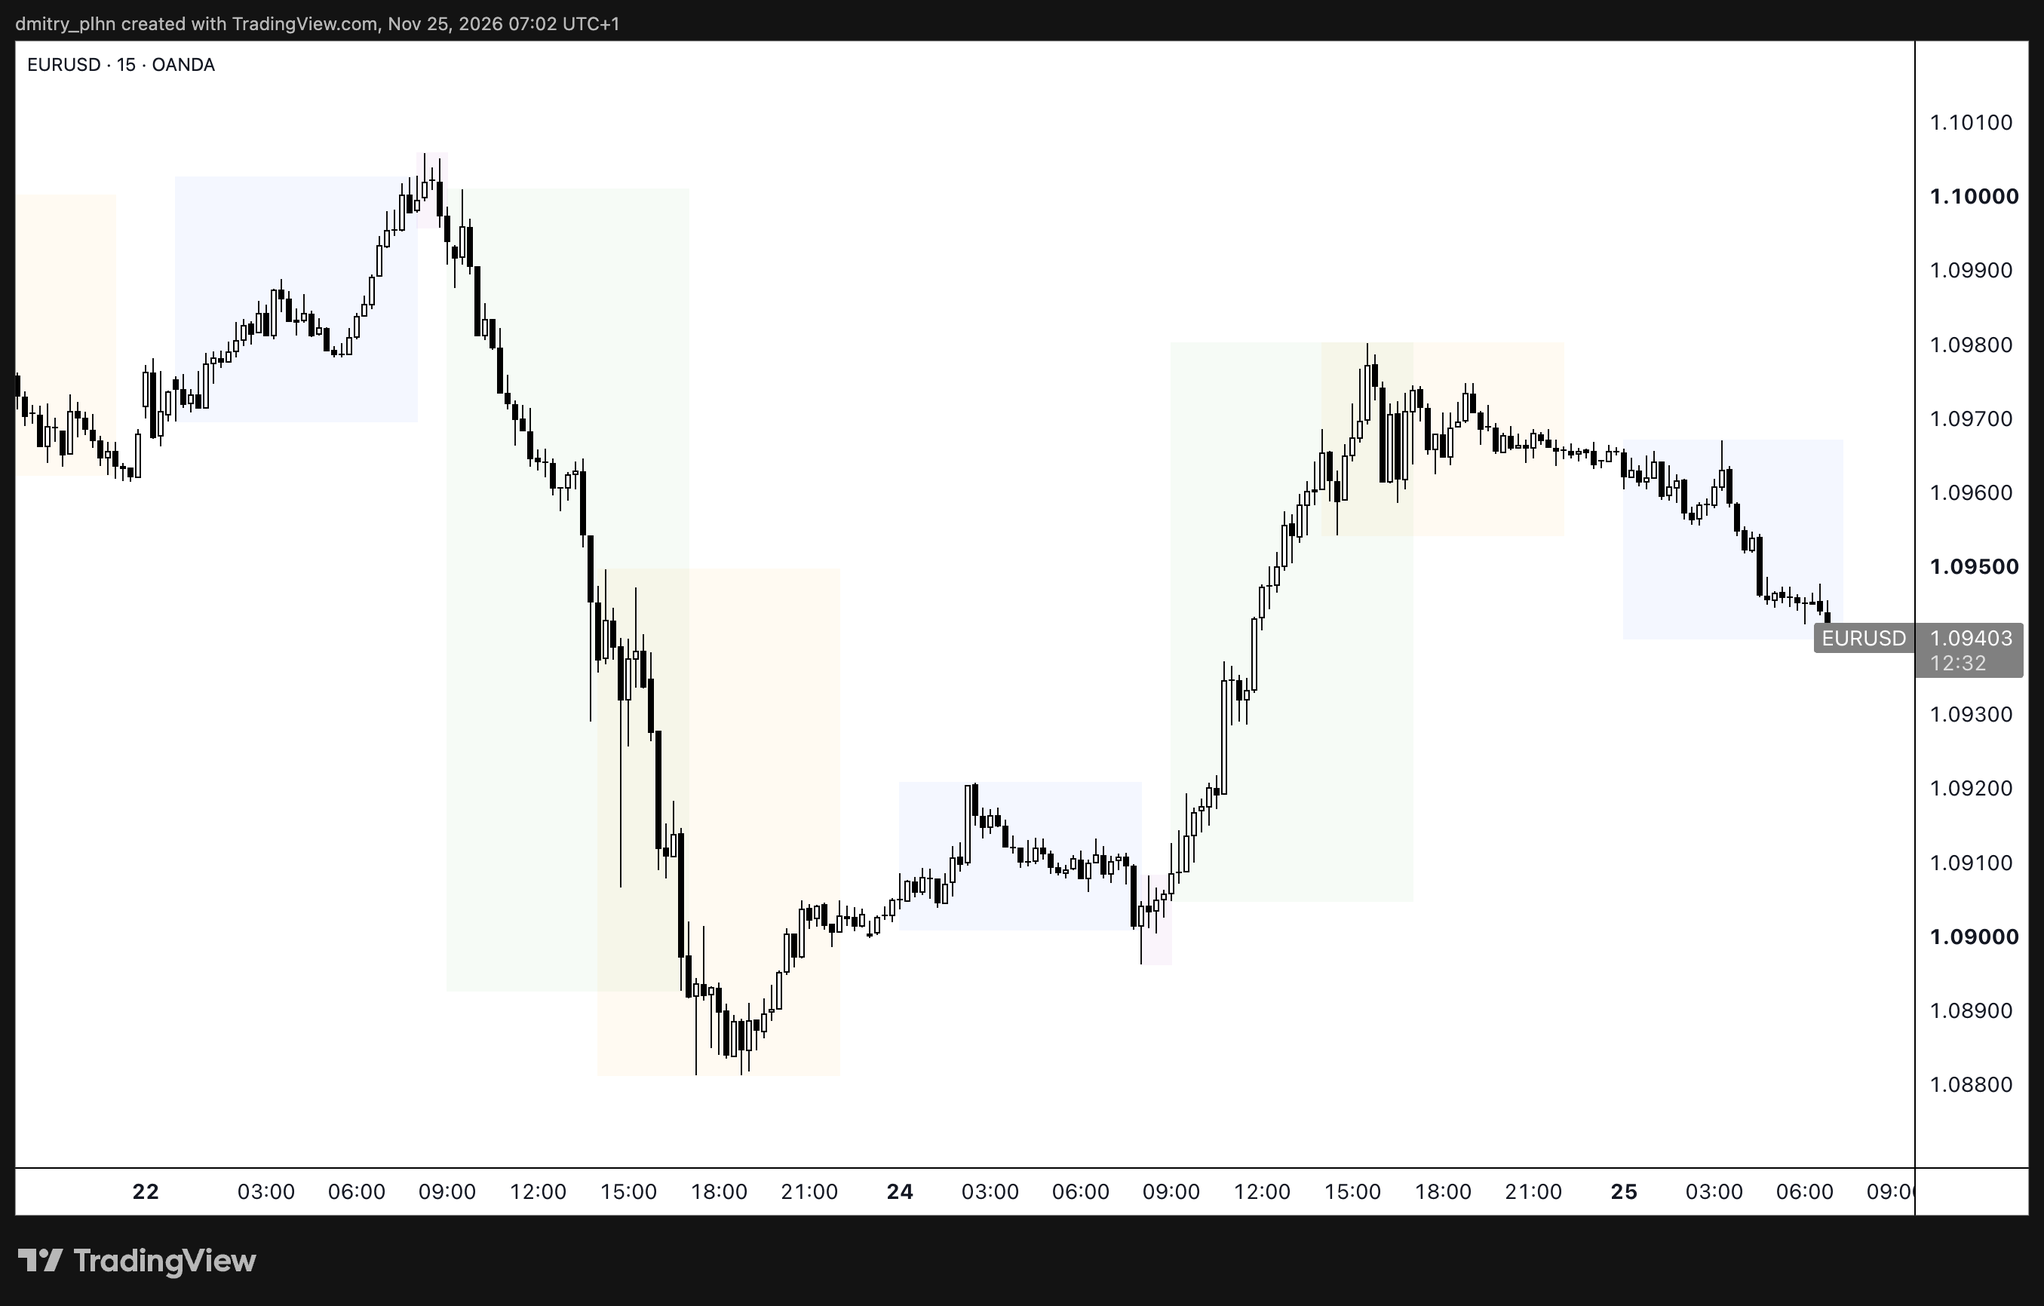
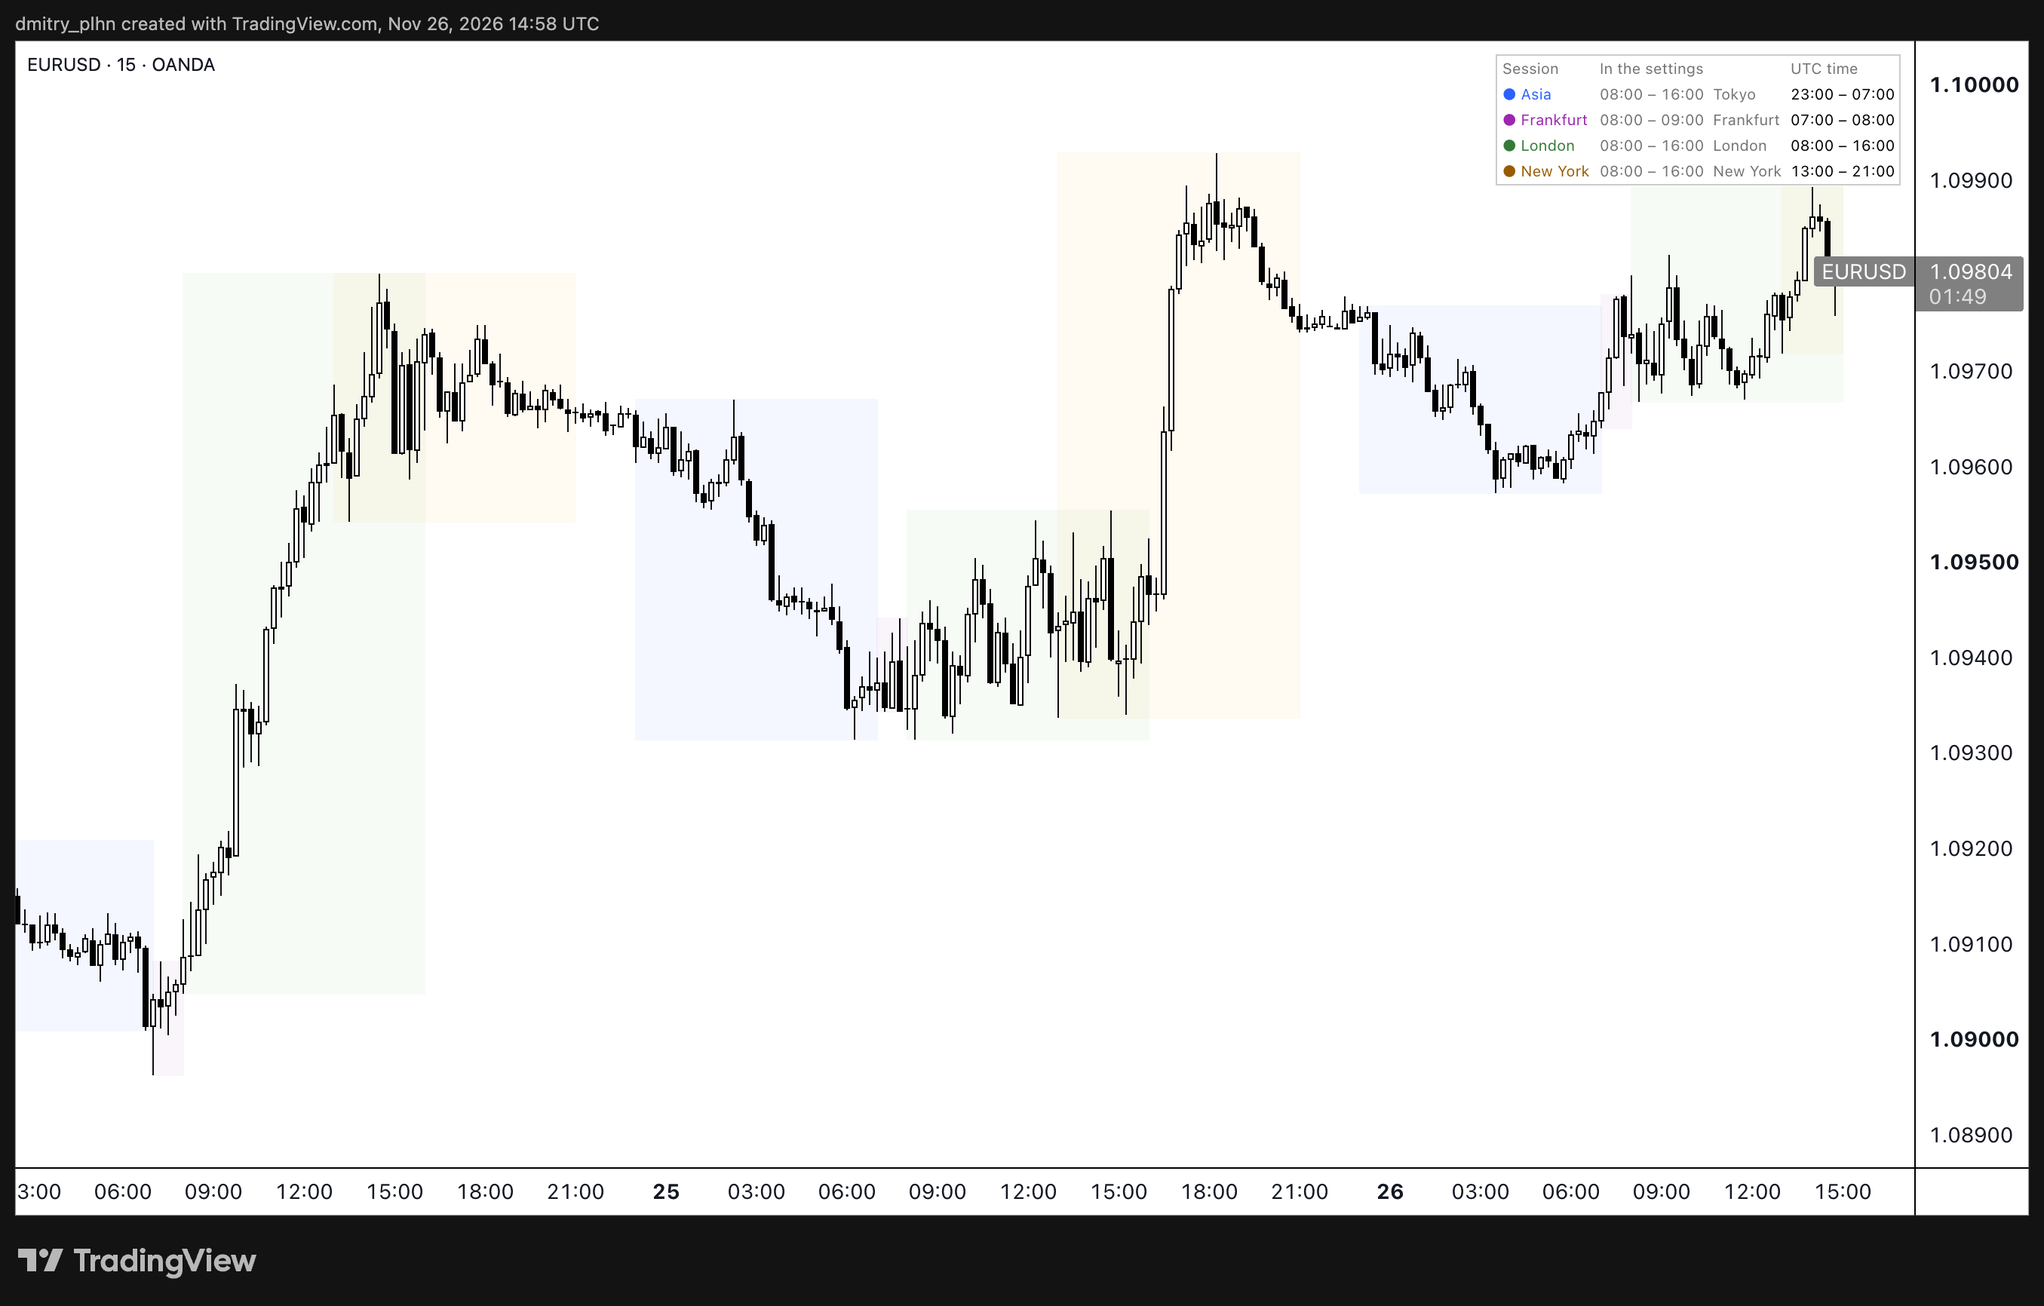
feat(dashboard): show the session hours on the chart by default
With the dashboard off, 'Hours on my clock' now draws a small table of its own: every session with its hours as written in the settings and the same hours in 'My timezone'. The setting is on by default, so the table is too. Picking a timezone used to change nothing that could be seen while the dashboard was off; now the last column follows it at once.

diff --git a/docs/TESTING.md b/docs/TESTING.md
@@ -63,7 +63,7 @@ Run before every release. Add the indicator to the chart and walk through the ro
 
 | # | Check | Expected |
 | --- | ------- | ---------- |
-| 1 | Defaults on a 15-minute chart | Four session boxes per day (Asia, Frankfurt, London, New York), no labels, nothing else |
+| 1 | Defaults on a 15-minute chart | Four session boxes per day (Asia, Frankfurt, London, New York), no labels, and the hours table with a line for each of the four |
 | 2 | Change the city of a session row, then the *Clock* of the killzones, then *My timezone* | The box of that row moves and keeps its width, the other sessions stay; the killzone clock moves killzones only; *My timezone* moves nothing but rows and clocks set to `My time` and changes the *Hours* column of the dashboard |
 | 3 | Weeks around the clock changes in Europe and the US (March, October – November) | Every session keeps the local hours of its city; killzones keep their New York times |
 | 4 | Style `Background`, then `Box + background`, then `Hidden` | Bands, both, nothing — labels stay for all but `Hidden` caption |
@@ -129,3 +129,4 @@ Run before every release. Add the indicator to the chart and walk through the ro
 | 2026-11-26 | 3.0.0 | Release build | pass — the tagged file itself was saved in TradingView, added to the chart as a new instance and published as the update: it compiles without errors and the editor marks nothing; on `OANDA:EURUSD` 15m the indicator has 115 inputs, all at their defaults, and 20 plots, and reports no script error |
 | 2026-11-26 | 4.0.0 | No timezone for the whole indicator: a *Clock* in the killzone, opens, opening range and time tools groups; *My timezone*; cities `Exchange` and `My time`; *Hours* column in the dashboard | Static checks pass. Full compile with **Add to chart** from an unsaved draft: pass, the editor marks nothing; 119 inputs, 20 plots. On `OANDA:EURUSD` 15m, 400 bars, with killzones, three opens, the opening range, day separators and weekday labels on: all 20 plots equal those of 3.0.0 on every bar, and the 70 boxes, 90 lines and 105 labels of the two builds are the same. A London row with `0900-1700` and the city `My time`, *My timezone* on `Paris, Berlin, Madrid`, gives the same plots as `0800-1600` `London` on all 400 bars. Dashboard with that timezone at 04:21 UTC: Asia `00:00 – 08:00` `Open · 2h 39m left`, Frankfurt `08:00 – 09:00`, London `09:00 – 17:00`, New York `14:00 – 22:00`. Not checked: a clock other than New York for killzones, opens and the opening range, the summer half of the year for a `My time` row, the mobile app. |
 | 2026-11-26 | 4.0.0 | Release build | pass — the tagged file itself was saved in TradingView, added to the chart as a new instance and published as the update: it compiles without errors and the editor marks nothing; on `OANDA:EURUSD` 15m the indicator has 119 inputs, all at their defaults, and 20 plots, and reports no script error |
+| 2026-11-26 | `main`, after 4.0.0 | Hours table on the chart when the dashboard is off | Static checks pass. Full compile with **Add to chart** from an unsaved draft: pass, the editor marks nothing; 119 inputs, 20 plots. On `OANDA:EURUSD` 15m with every input at its default the table reads `Asia · 08:00 – 16:00 Tokyo · 23:00 – 07:00`, `Frankfurt · 08:00 – 09:00 Frankfurt · 07:00 – 08:00`, `London · 08:00 – 16:00 London · 08:00 – 16:00`, `New York · 08:00 – 16:00 New York · 13:00 – 21:00` under the heading `UTC time`, and matches the time axis of a chart set to UTC. With *My timezone* on `Paris, Berlin, Madrid` the last column becomes 00:00 – 08:00, 08:00 – 09:00, 09:00 – 17:00 and 14:00 – 22:00; with killzones on, their five lines follow (`NY AM KZ · 07:00 – 10:00 New York · 13:00 – 16:00`). With the dashboard on the table is the dashboard with its *Hours* column; with *Hours on my clock* off and the dashboard off there is no table. Not checked: the mobile app, a chart above the timeframe limit. |

diff --git a/docs/SETTINGS.md b/docs/SETTINGS.md
@@ -5,9 +5,14 @@ as the titled input before them.
 
 > **Tip.** Hover the ⓘ icon next to an input in TradingView to read the same explanation without leaving the chart.
 
-With every input at its default the chart shows the four main sessions and nothing else:
+With every input at its default the chart shows the four main sessions and a small table of their hours:
 
-![Default settings: Asia, Frankfurt, London and New York session boxes](images/sessions-default.png)
+![Default settings: Asia, Frankfurt, London and New York session boxes and the hours table](images/sessions-default.png)
+
+The table has one line per session: its name, its hours as they are written in the settings, and the same hours
+on your own clock. The chart of the picture is set to UTC, which is also the default of *① General → My timezone*,
+so the last column matches the time axis. The other pictures of this page, except the dashboard one, were taken
+with *⑩ Hours on my clock* off.
 
 ## ① General
 
@@ -16,7 +21,7 @@ With every input at its default the chart shows the four main sessions and nothi
 | History, days (0 = all) | `20` | Drawings older than this many days are skipped. `0` draws the whole loaded history. |
 | Hide sessions above, minutes | `60` | Sessions, killzones and the opening range are hidden on chart timeframes above this value. |
 | Level labels offset, bars | `5` | How many bars to the right of the last bar the level lines end. Their labels sit at that end, so keep the right margin of the chart at least this wide. |
-| My timezone | `UTC` | The timezone your own chart shows — the clock in its bottom right corner. TradingView does not tell an indicator which one it is, so pick it here. It is used for the *Hours* column of the dashboard and for every clock set to `My time`. Sessions are drawn in the right place whatever is chosen here. |
+| My timezone | `UTC` | The timezone your own chart shows — the clock in its bottom right corner. TradingView does not tell an indicator which one it is, so pick it here. The hours table on the chart then shows every session on your clock, and it changes as soon as another city is picked. It is also the timezone of every clock set to `My time`. Sessions are drawn in the right place whatever is chosen here. |
 
 ## ② Sessions
 
@@ -165,7 +170,7 @@ them.
 | Text size | `Small` | Size of the table text. |
 | Average length | `20` | Number of completed sessions and days behind the `Avg` column. |
 | Day range row | on | Adds the day range and its share of the average daily range. |
-| Hours on my clock | on | Adds the *Hours* column: the hours of every session in *① General → My timezone*. |
+| Hours on my clock | on | Shows the hours of every session in *① General → My timezone*. With the dashboard off it is a small table of its own: session · hours as written in the settings, with their city · hours on your clock; enabled killzones are listed under the sessions. With the dashboard on it is the *Hours* column. |
 
 Columns: session name · hours on your own clock · status (`Open · 2h 05m left` or `Opens in 5h 03m`) · current or
 latest range · average range. The first line names the timezone the hours are shown in.

diff --git a/docs/FAQ.md b/docs/FAQ.md
@@ -17,9 +17,17 @@ The hours of a session row are the local time of the city on that row, not the t
 `0800-1600` is 8 to 16 o'clock in London. A chart set to Paris or Berlin time shows that session from 09:00 to
 17:00, a chart set to New York time from 03:00 to 11:00 — the same eight hours, read on another clock.
 
-To see the hours on your own clock, pick your timezone in *① General → My timezone* and switch the dashboard on:
-its *Hours* column lists every session in your time. With Paris or Berlin it reads Asia 00:00 – 08:00, Frankfurt
-08:00 – 09:00, London 09:00 – 17:00 and New York 14:00 – 22:00.
+The table on the chart does that conversion for you. Each line gives the hours as they are written in the
+settings and, next to them, the same hours in *① General → My timezone*. Pick your timezone there and the last
+column reads as your chart does: with Paris or Berlin, Asia 00:00 – 08:00, Frankfurt 08:00 – 09:00, London
+09:00 – 17:00 and New York 14:00 – 22:00.
+
+## I picked my timezone and the hours in the settings still start at 08:00
+
+They stay as they are on purpose. *My timezone* does not rewrite the session rows and does not move anything on
+the chart: a session row keeps the local time of its city, which is what keeps it in the right place all year.
+What changes is the table on the chart, whose last column shows every session on your clock. If you would rather
+type the hours as you see them on your chart, see the next entry.
 
 ## I want to type the hours as I see them on my chart
 
@@ -36,8 +44,13 @@ its own city, and why *My timezone* has to be picked once by hand.
 
 ## What is *My timezone* for?
 
-For two things: the *Hours* column of the dashboard, and every clock set to `My time`. Sessions, killzones and
-opens are drawn in the right place whatever it is set to, so there is nothing to break by leaving it alone.
+For two things: the hours table on the chart (the *Hours* column when the dashboard is on), and every clock set
+to `My time`. Sessions, killzones and opens are drawn in the right place whatever it is set to, so there is
+nothing to break by leaving it alone.
+
+## How do I hide the hours table?
+
+Untick *⑩ Dashboard → Hours on my clock*.
 
 ## A session is shifted by an hour
 

diff --git a/README.ru.md b/README.ru.md
@@ -19,7 +19,7 @@
 
 <a href="https://www.tradingview.com/script/ticv4Yo6-Custom-Sessions-Indicator/"><img src="docs/images/sessions-default.png" alt="Custom Sessions Indicator с настройками по умолчанию на EURUSD, 15 минут: боксы сессий Asia, Frankfurt, London и New York" width="100%"></a>
 
-<sub>Настройки по умолчанию на EURUSD, 15 минут: Asia, Frankfurt, London и New York.</sub>
+<sub>Настройки по умолчанию на EURUSD, 15 минут: Asia, Frankfurt, London и New York и таблица их часов.</sub>
 
 </div>
 
@@ -115,9 +115,10 @@ Killzones по умолчанию: Asia 20:00 – 00:00, London 02:00 – 05:00,
 NY PM 13:30 – 16:00, по нью-йоркскому времени — это *Clock* той же группы. Это общепринятые значения, а не правило:
 любое окно можно изменить.
 
-TradingView не сообщает индикатору, какой часовой пояс показывает ваш график. Выберите его один раз в
-*① General → My timezone*, и таблица покажет каждую сессию по вашим часам; строка с городом `My time` принимает
-часы так, как вы видите их на графике.
+Небольшая таблица на графике повторяет часы так, как они записаны в настройках, и рядом показывает их по вашим
+часам. TradingView не сообщает индикатору, какой часовой пояс показывает ваш график, поэтому выберите его один раз
+в *① General → My timezone*: таблица изменится сразу. Строка с городом `My time` принимает часы так, как вы видите
+их на графике.
 
 ## Документация
 

diff --git a/README.fr.md b/README.fr.md
@@ -19,7 +19,7 @@
 
 <a href="https://www.tradingview.com/script/ticv4Yo6-Custom-Sessions-Indicator/"><img src="docs/images/sessions-default.png" alt="Custom Sessions Indicator avec les paramètres par défaut sur EURUSD, 15 minutes : boîtes des sessions Asia, Frankfurt, London et New York" width="100%"></a>
 
-<sub>Paramètres par défaut sur EURUSD, 15 minutes : Asia, Frankfurt, London et New York.</sub>
+<sub>Paramètres par défaut sur EURUSD, 15 minutes : Asia, Frankfurt, London et New York, et le tableau de leurs heures.</sub>
 
 </div>
 
@@ -117,9 +117,10 @@ Killzones par défaut : Asia 20:00 – 00:00, London 02:00 – 05:00, NY AM 07:0
 NY PM 13:30 – 16:00, en heure de New York — le *Clock* de ce groupe. Ce sont des conventions, pas des règles :
 chaque fenêtre est modifiable.
 
-TradingView n'indique pas à un indicateur quel fuseau horaire votre graphique affiche. Choisissez-le une fois dans
-*① General → My timezone* : le tableau liste alors chaque session à votre heure, et une ligne dont la ville est
-`My time` prend ses heures telles que vous les voyez sur votre graphique.
+Un petit tableau sur le graphique reprend les heures telles qu'elles sont écrites dans les paramètres et les
+affiche à votre heure juste à côté. TradingView n'indique pas à un indicateur quel fuseau horaire votre graphique
+affiche : choisissez-le une fois dans *① General → My timezone*, le tableau change aussitôt. Une ligne dont la
+ville est `My time` prend ses heures telles que vous les voyez sur votre graphique.
 
 ## Documentation
 

diff --git a/README.md b/README.md
@@ -19,7 +19,7 @@
 
 <a href="https://www.tradingview.com/script/ticv4Yo6-Custom-Sessions-Indicator/"><img src="docs/images/sessions-default.png" alt="Custom Sessions Indicator with default settings on EURUSD, 15 minutes: Asia, Frankfurt, London and New York session boxes" width="100%"></a>
 
-<sub>Default settings on EURUSD, 15 minutes: Asia, Frankfurt, London and New York.</sub>
+<sub>Default settings on EURUSD, 15 minutes: Asia, Frankfurt, London and New York, and the table of their hours.</sub>
 
 </div>
 
@@ -115,9 +115,10 @@ Killzone presets: Asia 20:00 – 00:00, London 02:00 – 05:00, NY AM 07:00 – 
 NY PM 13:30 – 16:00, in New York time — the *Clock* of that group. These are conventions, not rules: every window
 is editable.
 
-TradingView does not tell an indicator which timezone your chart shows. Pick it once in *① General → My timezone*
-and the dashboard lists every session on your own clock; a row with the city `My time` takes its hours as you see
-them on your chart.
+A small table on the chart repeats the hours as they are written in the settings and shows them on your own clock
+next to that. TradingView does not tell an indicator which timezone your chart shows, so pick it once in
+*① General → My timezone*: the table changes at once. A row with the city `My time` takes its hours as you see them
+on your chart.
 
 ## Documentation
 

diff --git a/docs/ARCHITECTURE.md b/docs/ARCHITECTURE.md
@@ -121,7 +121,12 @@ display setting that Pine does not expose. Most public session indicators theref
 timezone, UTC or New York, and leave the conversion to the user; a few give each session the timezone of its
 city; one offers a "your timezone" mode for the times it prints. This script takes the second and the third:
 the city per row keeps the hours true all year, and *① General → My timezone* is the one thing the user tells
-the script, used for the *Hours* column of the dashboard and for any clock set to `My time`.
+the script, used for the hours table and for any clock set to `My time`.
+
+That table is on by default. A setting that changes nothing on the screen reads as broken: with the table off,
+picking a timezone had no visible effect, and the rows kept saying 08:00. So each line of the table carries both
+readings, the hours as written in the settings and the hours on the user's clock, and the second one changes the
+moment another timezone is picked.
 
 Up to 2.1.1 there was one timezone for all sessions, New York by default. It kept the engine one line shorter and
 made the settings hard to read: "London 03:00 – 11:00" only makes sense to someone who knows that the numbers are

diff --git a/CHANGELOG.md b/CHANGELOG.md
@@ -13,6 +13,22 @@ How versions are counted for an indicator:
 
 ## [Unreleased]
 
+The hours of the sessions are on the chart from the start, on your own clock.
+
+### Changed
+
+- *⑩ Dashboard → Hours on my clock* no longer needs the dashboard. With the dashboard off it shows a small table of
+  its own, and since the setting is on by default, so is the table: one line per session with its name, its hours
+  as they are written in the settings and the same hours in *① General → My timezone*. Enabled killzones are
+  listed under the sessions. Picking another timezone changes the last column at once; until now it changed
+  nothing that could be seen while the dashboard was off.
+- The default look therefore has a table in the top right corner. Untick *Hours on my clock* to hide it.
+
+### Added
+
+- FAQ entries: why the hours in the settings still start at 08:00 after you picked your timezone, and how to hide
+  the hours table.
+
 ## [4.0.0] - 2026-11-26
 
 No timezone for the whole indicator any more: every window has its clock next to it, and the one timezone you set
